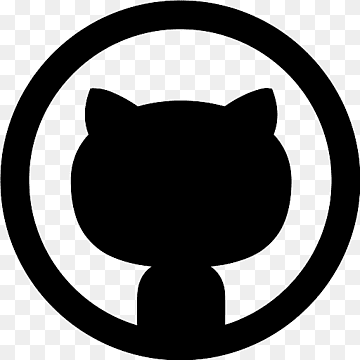
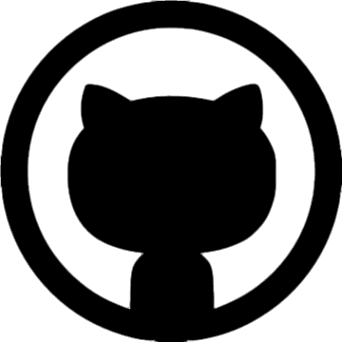
fix: apply transparency to png

diff --git a/index.html b/index.html
@@ -53,7 +53,7 @@
     </main>
     <footer class="footer">
         <p class="footer-text">
-          &copy; <script>document.write(new Date().getFullYear())</script>
+          Copyright &copy; <script>document.write(new Date().getFullYear())</script>
           <a href="https://github.com/BradleyGam" target="_blank">
             BradleyGam <img class="github-logo" src="github.png" alt="GitHub Logo">
           </a>

diff --git a/style.css b/style.css
@@ -132,4 +132,5 @@ button:active {
   .github-logo {
     width: 32px;
     height: 32px;
+    background-color: var(--background);
 }
